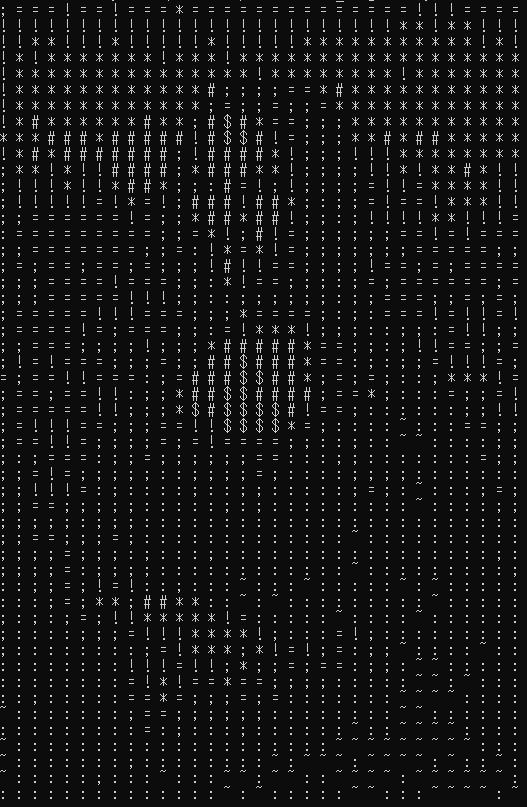
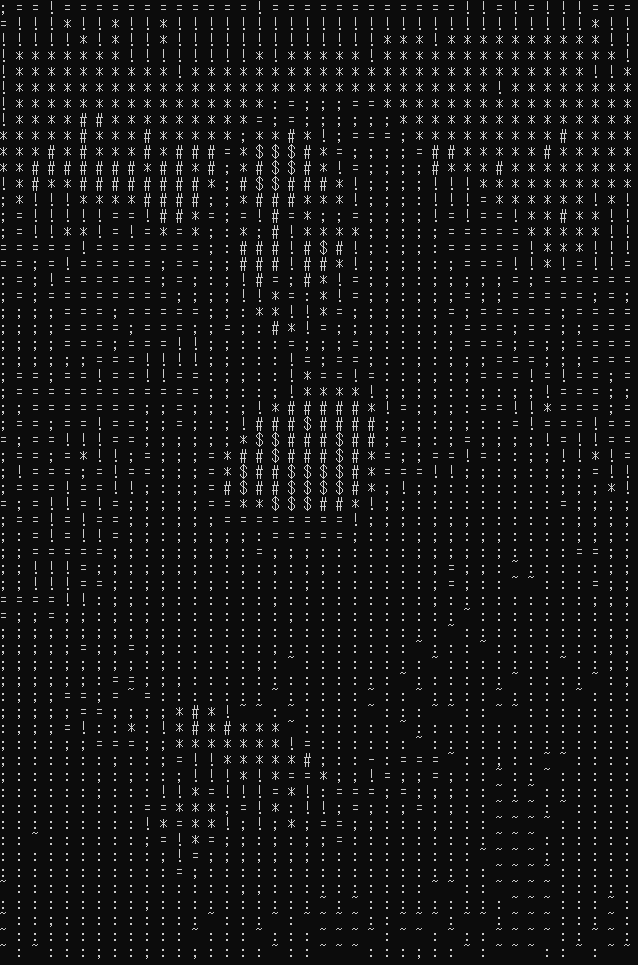
change README.md

diff --git a/src/Main.java b/src/Main.java
@@ -15,7 +15,7 @@ public class Main {
 		
 		ConsoleImage ci = new ConsoleImage();
 		BufferedImage original = ci.readImage(file);
-		BufferedImage resizeImage = ci.resizeImage(original, 50, 50);
+		BufferedImage resizeImage = ci.resizeImage(original, 60, 60);
 		BufferedImage greyScaleImage = ci.grayScaleImage(resizeImage);
 		char[][] consoleImage = ci.fromImageToConsoleImage(greyScaleImage);
 		

diff --git a/README.md b/README.md
@@ -30,8 +30,7 @@ java Main "image file path"
 ```
 java Main Mona_Lisa.jpg
 ```
-![console_Mona_Lisa.png](https://github.com/OrdinaryHumanDAO/console-image/blob/main/console_Mona_Lisa.png)
-
+<img width="321" alt="Console_Mona_Lisa.png" src="https://github.com/OrdinaryHumanDAO/console-image/blob/main/console_Mona_Lisa.png">
 
 ## License
 This project is licensed under the MIT License - see the [LICENSE.md](https://github.com/OrdinaryHumanDAO/console-image/blob/master/LICENSE.md) file for details
